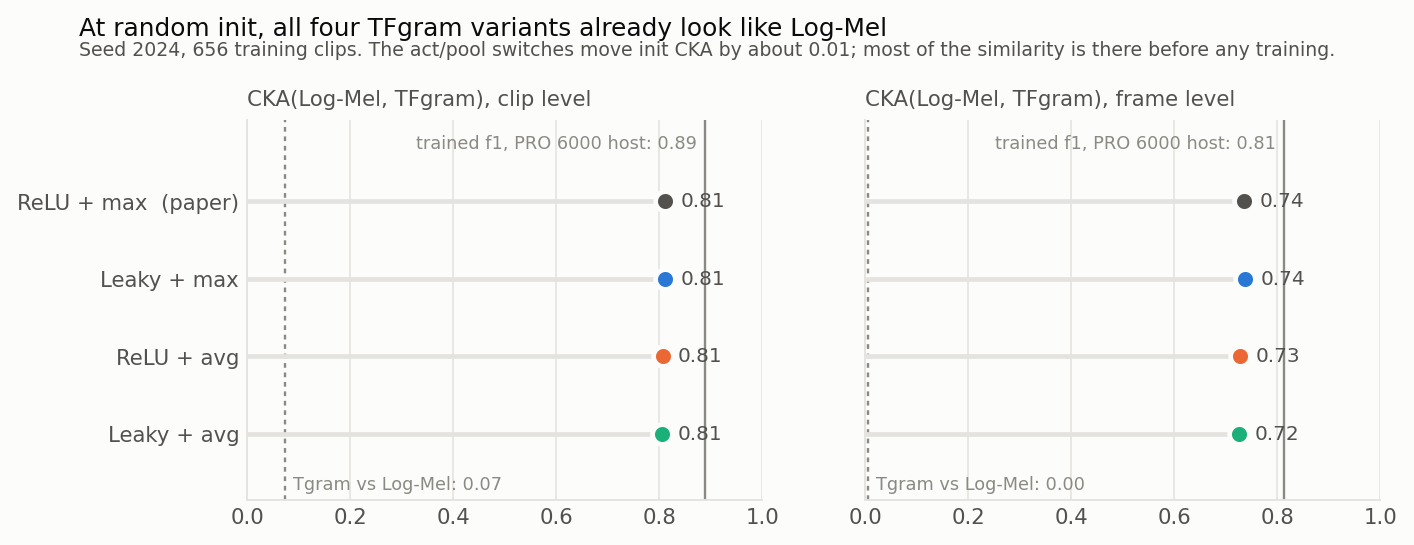
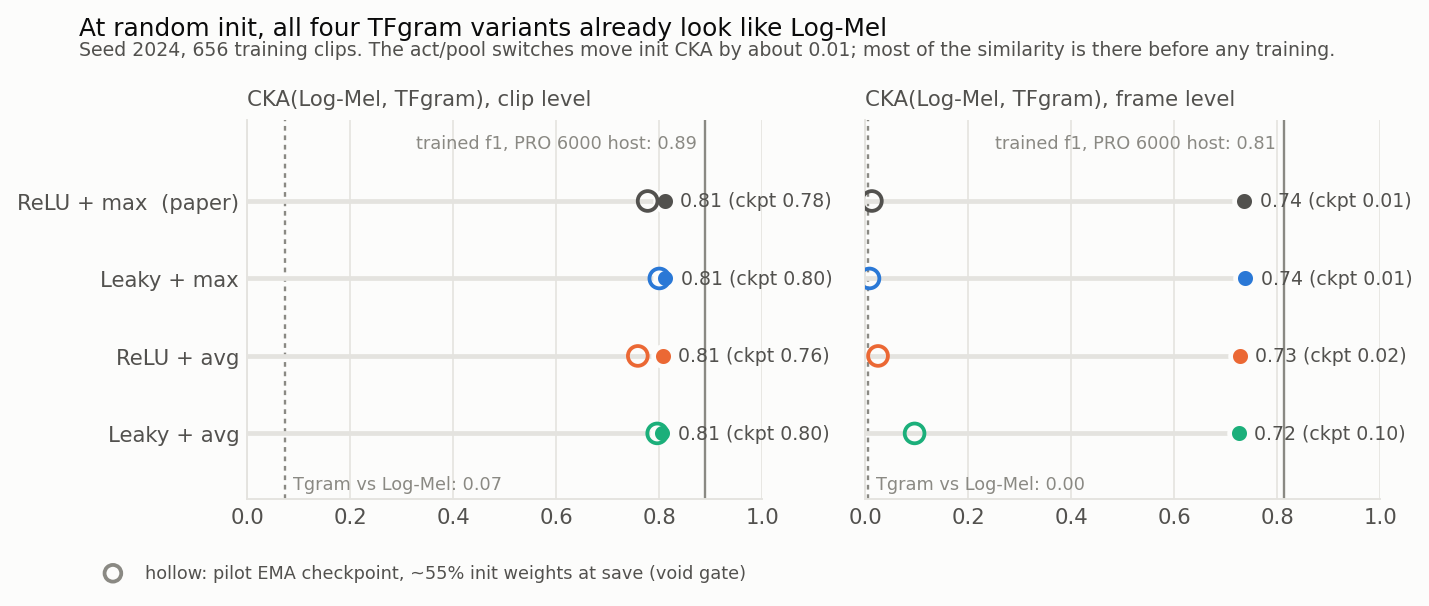
tfgram-redesign fig1: hollow markers for the void pilot EMA checkpoints next to init CKA

diff --git a/ablation/tfgram-redesign/make_plots.py b/ablation/tfgram-redesign/make_plots.py
@@ -100,7 +100,13 @@ def fig1():
             v = r[f'cka_{level}/Log-Mel~TFgram']
             ax.plot([0, v], [i, i], color=GRID, lw=2, solid_capstyle='round', zorder=1)
             ax.scatter([v], [i], s=70, color=col, edgecolor=SURFACE, lw=2, zorder=3)
-            ax.text(v + 0.03, i, f'{v:.2f}', va='center', color=INK_2, fontsize=8.5)
+            t = runs[key][1].get('trained')
+            if t:  # EMA ckpt, ~55% init: drawn hollow so it isn't read as a trained result
+                tv = t[f'cka_{level}/Log-Mel~TFgram']
+                ax.scatter([tv], [i], s=70, facecolor='none', edgecolor=col, lw=1.6, zorder=4)
+                ax.text(max(v, tv) + 0.03, i, f'{v:.2f} (ckpt {tv:.2f})', va='center', color=INK_2, fontsize=8)
+            else:
+                ax.text(v + 0.03, i, f'{v:.2f}', va='center', color=INK_2, fontsize=8.5)
         # context: what a decorrelated branch looks like, and trained f1 elsewhere
         tg = np.mean([runs[k][1]['init'][f'cka_{level}/Log-Mel~Tgram'] for k in runs])
         ax.axvline(tg, color=MUTED, lw=1, ls=(0, (2, 2)), zorder=0)
@@ -113,6 +119,10 @@ def fig1():
         ax.set_xlim(0, 1.0)
         ax.set_title(f'CKA(Log-Mel, TFgram), {title}', loc='left', fontsize=9, color=INK_2)
         ax.grid(axis='x'); ax.set_axisbelow(True)
+    axes[1].scatter([], [], s=50, facecolor='none', edgecolor=MUTED, lw=1.6,
+                    label='hollow: pilot EMA checkpoint, ~55% init weights at save (void gate)')
+    fig.legend(*axes[1].get_legend_handles_labels(), loc='lower left', bbox_to_anchor=(0.01, -0.09),
+               fontsize=7.5, frameon=False, labelcolor=INK_2)
     axes[0].set_yticks(range(len(CELLS)))
     axes[0].set_yticklabels([c[1] for c in CELLS])
     axes[0].set_ylim(-1.05, len(CELLS) - 0.15)

diff --git a/ablation/tfgram-redesign/README.md b/ablation/tfgram-redesign/README.md
@@ -369,7 +369,7 @@ The three redesigned cells take the three categorical slots that validate under
 
 | figure | shows |
 |--------|-------|
-| `plots/fig1_init_cka.png` | clip and frame CKA with Log-Mel at random init for all four cells: they're within about 0.01 of each other and close to trained f1 |
+| `plots/fig1_init_cka.png` | clip and frame CKA with Log-Mel at random init for all four cells: they're within about 0.01 of each other and close to trained f1; hollow markers are the void pilot EMA checkpoints |
 | `plots/fig2_ema_init_share.png` | share of the EMA weights still at init vs epoch: why the 30-epoch gate measured mostly init |
 | `plots/fig3_slope_sweep.png` | init CKA vs activation slope under max and avg pooling: only slope 1 with avg pooling decorrelates |
 | `plots/fig4_not_tgram.png` | frame R² of each TFgram variant from Log-Mel / Tgram / Tgram's front end, against the two-random-front-ends control; and which input band drives the output |
